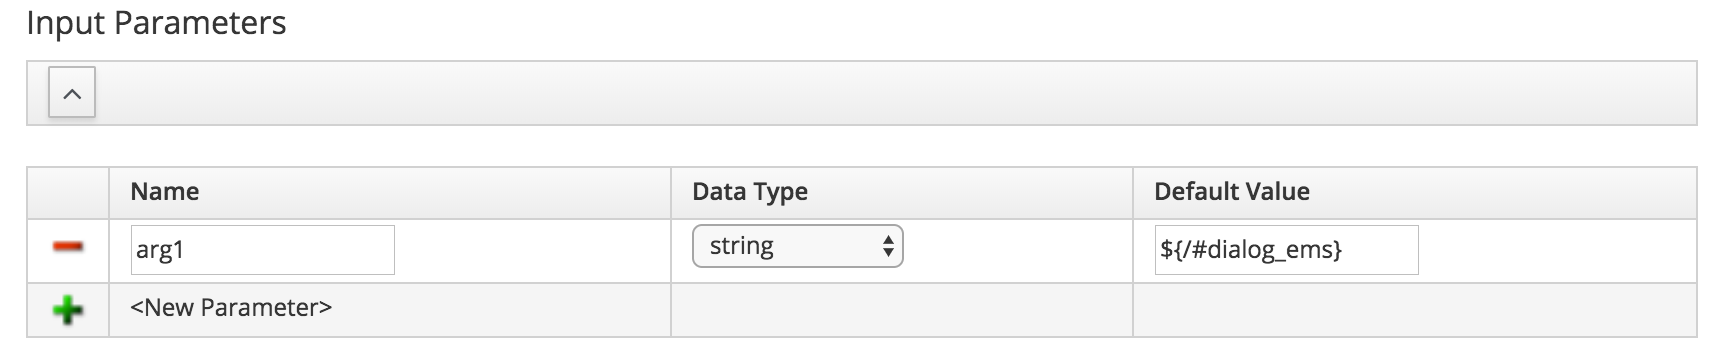
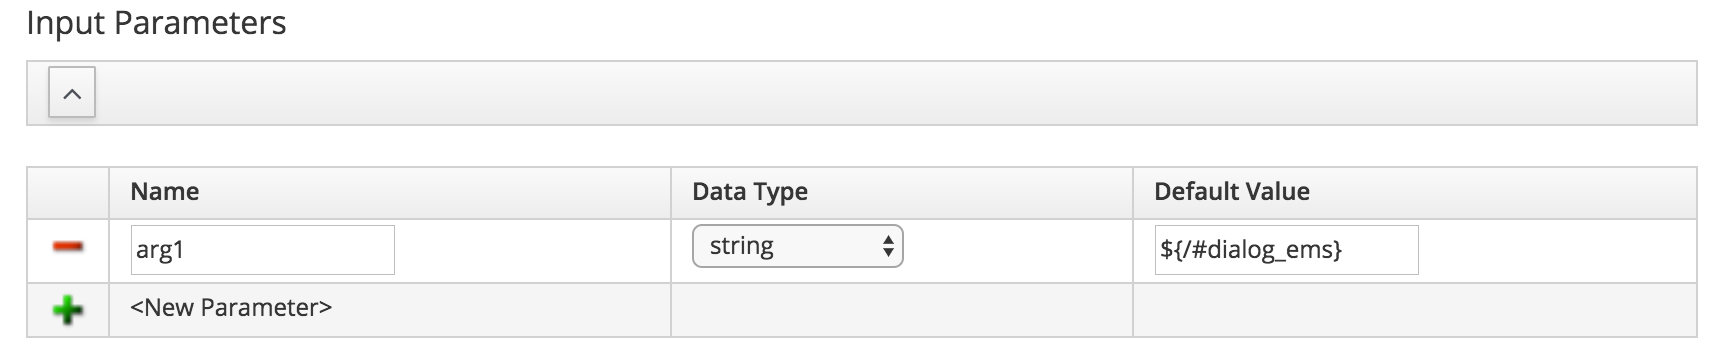
updated chapters

diff --git a/expression_methods/chapter.md b/expression_methods/chapter.md
@@ -62,7 +62,7 @@ Several other input arguments can be used. For example if {guid ⇒ name} hash p
   
 When run from **Automate -> Simulation** the `values` hash now has the following keys:
 
-![Simulation Results 2](images/screenshot9.png)
+![Simulation Results for an Alternative Key](images/screenshot9.png)
   
 If an array rather than hash should be returned by the expression method, this can also be specified using input parameters (see [Setting an Alternative Result Type](#i10) and [Simulation Results](#i11)).
 
@@ -70,7 +70,7 @@ If an array rather than hash should be returned by the expression method, this c
 
  When run from **Automate -> Simulation** it can be seen that `values` is now an array of [id,name] pairs, as follows: 
 
-![Simulation Results 3](images/screenshot11.png)
+![Simulation Results from an Alternative Result Type](images/screenshot11.png)
 
 ### Summary of arguments
 
